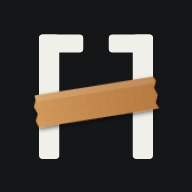
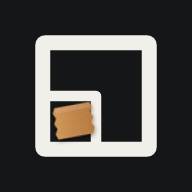
feat: サイト名を「◱」にし、ロゴを描き直す
「まがり」そのものを表す一文字は無いが、四角の一隅だけを仕切った ◱ は
「人の場所の一角を借りる」がそのまま図になっている。名前とロゴをこれに揃える。

title・og:site_name・フッター・manifest など名札の位置だけを ◱ にし、
文中と動詞「まがりする」はひらがなのまま読めるようにした。
MiAuth の appName、パスキーの rpName、aria-label は、サイトの外の画面や
読み上げで記号だけでは何か分からないので「まがり」を残す。

Changed region(s): [[0.1562, 0.1562, 0.8438, 0.8438]]

diff --git a/src/routes/+layout.svelte b/src/routes/+layout.svelte
@@ -32,7 +32,7 @@ const isActive = (href: string) => page.url.pathname.startsWith(href);
 	<link rel="apple-touch-icon" href="/apple-touch-icon.png" />
 	<link rel="manifest" href="/manifest.webmanifest" />
 	<meta name="theme-color" content="#151617" />
-	<meta property="og:site_name" content="まがり" />
+	<meta property="og:site_name" content="◱" />
 	<!-- ページが ogImage（会のフライヤー、ハコの写真）を返せばそれを、無ければ既定の画像 -->
 	<meta property="og:image" content="{page.url.origin}{page.data.ogImage ?? '/og.png'}" />
 	<meta name="twitter:card" content="summary_large_image" />
@@ -76,7 +76,7 @@ const isActive = (href: string) => page.url.pathname.startsWith(href);
 <!-- ナビと同じものは繰り返さない。ここにしか無い入口（壁、運営への連絡、ソース）だけを 1 行で -->
 <footer class="border-t border-line">
 	<div class="mx-auto flex max-w-content flex-wrap items-center justify-between gap-x-6 gap-y-2 px-4 py-6 text-xs text-dim">
-		<p>© {year} まがり</p>
+		<p>© {year} ◱</p>
 		<nav aria-label="フッター" class="flex flex-wrap gap-x-5 gap-y-1">
 			<a href="/wall" class="hover:text-text">フライヤーの壁</a>
 			<a href="/terms" class="hover:text-text">利用規約</a>

diff --git a/src/routes/policy/+page.svelte b/src/routes/policy/+page.svelte
@@ -1,10 +1,10 @@
 <svelte:head>
-	<title>掲載と削除の方針 | まがり</title>
+	<title>掲載と削除の方針 | ◱</title>
 	<meta name="description" content="まがり（magari.cc）に載せてよいものと、取り下げの申し出への対応。" />
 </svelte:head>
 
 <article class="doc mx-auto mt-6 max-w-[40em]">
-	<p class="label">まがり</p>
+	<p class="label">◱</p>
 	<h1>掲載と削除の方針</h1>
 	<p class="doc-lead">まがりに何が載るか、載っているものに問題があったときにどうするかを書きます。</p>
 

diff --git a/src/routes/privacy/+page.svelte b/src/routes/privacy/+page.svelte
@@ -1,10 +1,10 @@
 <svelte:head>
-	<title>プライバシーポリシー | まがり</title>
+	<title>プライバシーポリシー | ◱</title>
 	<meta name="description" content="まがり（magari.cc）が預かる情報と、その扱い。" />
 </svelte:head>
 
 <article class="doc mx-auto mt-6 max-w-[40em]">
-	<p class="label">まがり</p>
+	<p class="label">◱</p>
 	<h1>プライバシーポリシー</h1>
 	<p class="doc-lead">まがりが何を預かり、何に使うかを書きます。預かる情報は、できるだけ少なくしています。</p>
 

diff --git a/src/routes/terms/+page.svelte b/src/routes/terms/+page.svelte
@@ -1,10 +1,10 @@
 <svelte:head>
-	<title>利用規約 | まがり</title>
+	<title>利用規約 | ◱</title>
 	<meta name="description" content="まがり（magari.cc）の利用規約。" />
 </svelte:head>
 
 <article class="doc mx-auto mt-6 max-w-[40em]">
-	<p class="label">まがり</p>
+	<p class="label">◱</p>
 	<h1>利用規約</h1>
 	<p class="doc-lead">まがり（magari.cc）を使うときの約束です。ページを作る、間を開く（会を載せる）ときは、この規約に同意したものとします。</p>
 

diff --git a/src/routes/+error.svelte b/src/routes/+error.svelte
@@ -4,7 +4,7 @@ import { page } from "$app/state";
 const notFound = $derived(page.status === 404);
 </script>
 
-<svelte:head><title>{notFound ? '道がくねくねしすぎました' : 'つまずきました'} | まがり</title></svelte:head>
+<svelte:head><title>{notFound ? '道がくねくねしすぎました' : 'つまずきました'} | ◱</title></svelte:head>
 
 <section class="dots -mx-4 mt-10 px-4 py-20 text-center">
 	<p class="label">{page.status}</p>

diff --git a/src/routes/+page.svelte b/src/routes/+page.svelte
@@ -25,7 +25,7 @@ const WORDS = [
 </script>
 
 <svelte:head>
-	<title>まがり | 今日も、どこかで誰かが開けている。</title>
+	<title>◱ | 今日も、どこかで誰かが開けている。</title>
 	<meta name="description" content="今日もどこかで誰かが開けている。行ってもいいし、自分が開けてもいい。間借り店舗・日替わり店長・ライブ・自助会・オフ会を一箇所で。" />
 </svelte:head>
 

diff --git a/src/routes/[handle=at]/+page.svelte b/src/routes/[handle=at]/+page.svelte
@@ -74,7 +74,7 @@ const description = $derived(actor.catch ?? actor.summary ?? undefined);
 </script>
 
 <svelte:head>
-	<title>{actor.name} | まがり</title>
+	<title>{actor.name} | ◱</title>
 	{#if description}<meta name="description" content={description} />{/if}
 	<meta property="og:title" content={actor.name} />
 	{#if description}<meta property="og:description" content={description} />{/if}

diff --git a/src/routes/contact/+page.svelte b/src/routes/contact/+page.svelte
@@ -6,7 +6,7 @@ import type { PageProps } from "./$types";
 let { data, form }: PageProps = $props();
 </script>
 
-<svelte:head><title>掲載の取り下げ・連絡 | まがり</title></svelte:head>
+<svelte:head><title>掲載の取り下げ・連絡 | ◱</title></svelte:head>
 
 <section class="mx-auto mt-6 max-w-xl">
 	<p class="label">運営への連絡</p>

diff --git a/src/routes/home/+page.svelte b/src/routes/home/+page.svelte
@@ -26,7 +26,7 @@ const weekEvents = $derived(
 </script>
 
 <svelte:head>
-	<title>これからの間 | まがり</title>
+	<title>これからの間 | ◱</title>
 	<meta name="description" content="これから 7 日のあいだに開く間。間借り店舗・日替わり店長・ライブ・自助会・オフ会を一箇所で。" />
 </svelte:head>
 

diff --git a/src/routes/[handle=at]/edit/+page.svelte b/src/routes/[handle=at]/edit/+page.svelte
@@ -18,7 +18,7 @@ const KIND_WORD: Record<string, string> = {
 let newPlan = $state(false);
 </script>
 
-<svelte:head><title>{data.values.name} を編集 | まがり</title></svelte:head>
+<svelte:head><title>{data.values.name} を編集 | ◱</title></svelte:head>
 
 <div class="mt-4 mb-8 flex flex-wrap items-end justify-between gap-3">
 	<div>

diff --git a/src/routes/spaces/new/+page.svelte b/src/routes/spaces/new/+page.svelte
@@ -5,7 +5,7 @@ import type { PageProps } from "./$types";
 let { form }: PageProps = $props();
 </script>
 
-<svelte:head><title>ハコを登録する | まがり</title></svelte:head>
+<svelte:head><title>ハコを登録する | ◱</title></svelte:head>
 
 <section class="mx-auto mt-6 max-w-md">
 	<p class="label">ハコを登録する</p>

diff --git a/src/routes/e/[id]/edit/+page.svelte b/src/routes/e/[id]/edit/+page.svelte
@@ -6,7 +6,7 @@ import type { PageProps } from "./$types";
 let { data, form }: PageProps = $props();
 </script>
 
-<svelte:head><title>間を編集 | まがり</title></svelte:head>
+<svelte:head><title>間を編集 | ◱</title></svelte:head>
 
 <section class="mx-auto mt-4 max-w-2xl">
 	<p class="label">間を編集</p>
